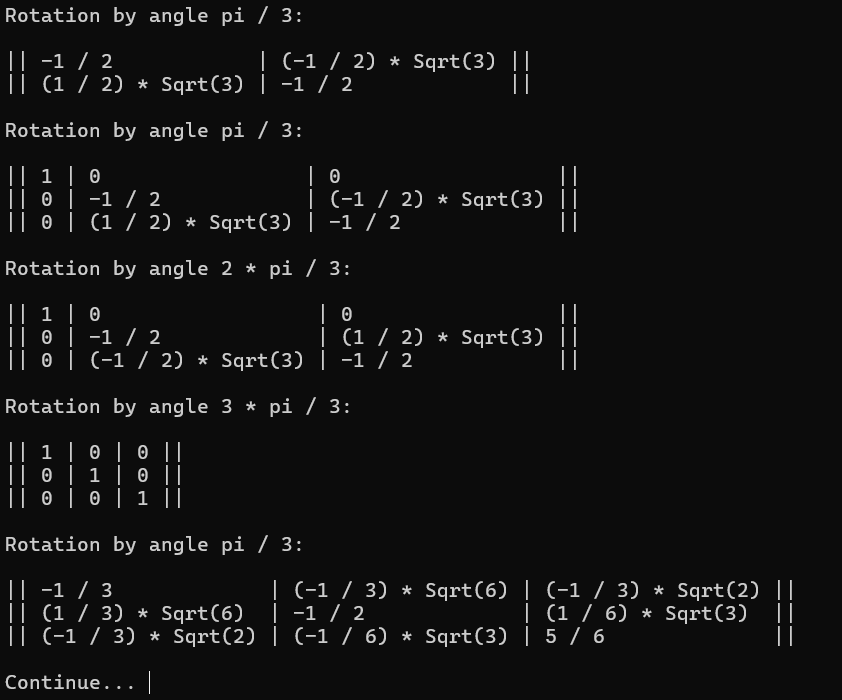
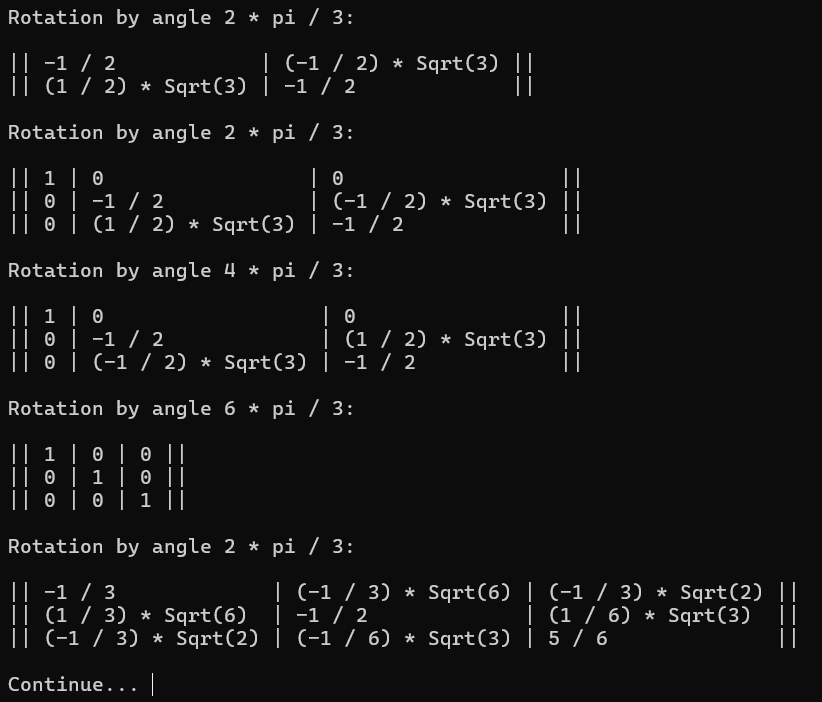
Add tests.

diff --git a/function_calculator/main.cpp b/function_calculator/main.cpp
@@ -9,27 +9,27 @@ using namespace FunctionalCalculator;
 bool test_matrix()
 {
   {
-    Matrix<QuadraticNumber> rotPiOver3;
-    rotPiOver3.addRow({ Rational(-1, 2), QuadraticNumber::sqrt(3) * Rational(-1, 2) });
-    rotPiOver3.addRow({ QuadraticNumber::sqrt(3) * Rational(1, 2) , Rational(-1, 2) });
-    std::cout << "\nRotation by angle pi / 3:\n" << rotPiOver3.print(true);
+    Matrix<QuadraticNumber> rot2PiOver3;
+    rot2PiOver3.addRow({ Rational(-1, 2), QuadraticNumber::sqrt(3) * Rational(-1, 2) });
+    rot2PiOver3.addRow({ QuadraticNumber::sqrt(3) * Rational(1, 2) , Rational(-1, 2) });
+    std::cout << "\nRotation by angle 2 * pi / 3:\n" << rot2PiOver3.print(true);
   }
-  Matrix<QuadraticNumber> rotPiOver3;
-  rotPiOver3.addRow({ Rational(1), Rational(0), Rational(0) });
-  rotPiOver3.addRow({ Rational(0), Rational(-1, 2), QuadraticNumber::sqrt(3) * Rational(-1, 2) });
-  rotPiOver3.addRow({ Rational(0), QuadraticNumber::sqrt(3) * Rational(1, 2) , Rational(-1, 2) });
-  std::cout << "\n\nRotation by angle pi / 3:\n" << rotPiOver3.print(true);
+  Matrix<QuadraticNumber> rot2PiOver3;
+  rot2PiOver3.addRow({ Rational(1), Rational(0), Rational(0) });
+  rot2PiOver3.addRow({ Rational(0), Rational(-1, 2), QuadraticNumber::sqrt(3) * Rational(-1, 2) });
+  rot2PiOver3.addRow({ Rational(0), QuadraticNumber::sqrt(3) * Rational(1, 2) , Rational(-1, 2) });
+  std::cout << "\n\nRotation by angle 2 * pi / 3:\n" << rot2PiOver3.print(true);
 
-  Matrix<QuadraticNumber> rot2 = rotPiOver3 * rotPiOver3;
-  std::cout << "\n\nRotation by angle 2 * pi / 3:\n" << rot2.print(true);
-  Matrix<QuadraticNumber> id = rotPiOver3 * rotPiOver3 * rotPiOver3;
-  std::cout << "\n\nRotation by angle 3 * pi / 3:\n" << id.print(true);
+  Matrix<QuadraticNumber> rot2 = rot2PiOver3 * rot2PiOver3;
+  std::cout << "\n\nRotation by angle 4 * pi / 3:\n" << rot2.print(true);
+  Matrix<QuadraticNumber> id = rot2PiOver3 * rot2PiOver3 * rot2PiOver3;
+  std::cout << "\n\nRotation by angle 6 * pi / 3:\n" << id.print(true);
 
-  Matrix<QuadraticNumber> otherRotPiOver3;
-  otherRotPiOver3.addRow({ Rational(-1, 3), QuadraticNumber::sqrt(Rational(2, 3)) * Rational(-1), QuadraticNumber::sqrt(Rational(2)) * Rational(-1, 3) });
-  otherRotPiOver3.addRow({ QuadraticNumber::sqrt(Rational(2, 3)), Rational(-1, 2) , QuadraticNumber::sqrt(Rational(1, 3)) * Rational(1, 2) });
-  otherRotPiOver3.addRow({ QuadraticNumber::sqrt(Rational(2)) * Rational(-1, 3), QuadraticNumber::sqrt(Rational(1, 3)) * Rational(-1, 2), Rational(5, 6)});
-  std::cout << "\n\nRotation by angle pi / 3:\n" << otherRotPiOver3.print(true);
+  Matrix<QuadraticNumber> otherRot2PiOver3;
+  otherRot2PiOver3.addRow({ Rational(-1, 3), QuadraticNumber::sqrt(Rational(2, 3)) * Rational(-1), QuadraticNumber::sqrt(Rational(2)) * Rational(-1, 3) });
+  otherRot2PiOver3.addRow({ QuadraticNumber::sqrt(Rational(2, 3)), Rational(-1, 2) , QuadraticNumber::sqrt(Rational(1, 3)) * Rational(1, 2) });
+  otherRot2PiOver3.addRow({ QuadraticNumber::sqrt(Rational(2)) * Rational(-1, 3), QuadraticNumber::sqrt(Rational(1, 3)) * Rational(-1, 2), Rational(5, 6)});
+  std::cout << "\n\nRotation by angle 2 * pi / 3:\n" << otherRot2PiOver3.print(true);
 
   std::cout << "\n";
   return true;

diff --git a/README.md b/README.md
@@ -156,6 +156,8 @@
 
 ## **Function Calculator.**
 
+<a href="#"><img alt="ComputationalGeometry" src="function_calculator/matrixRotations.png" width="100%"/></a>
+
 * This is a utility written in C++ for calculating with functions.
 * It is located in the `function_calculator` directory.
 * It can be built like the [graphing calculator](##graphing-math) and does not require extra libraries.
